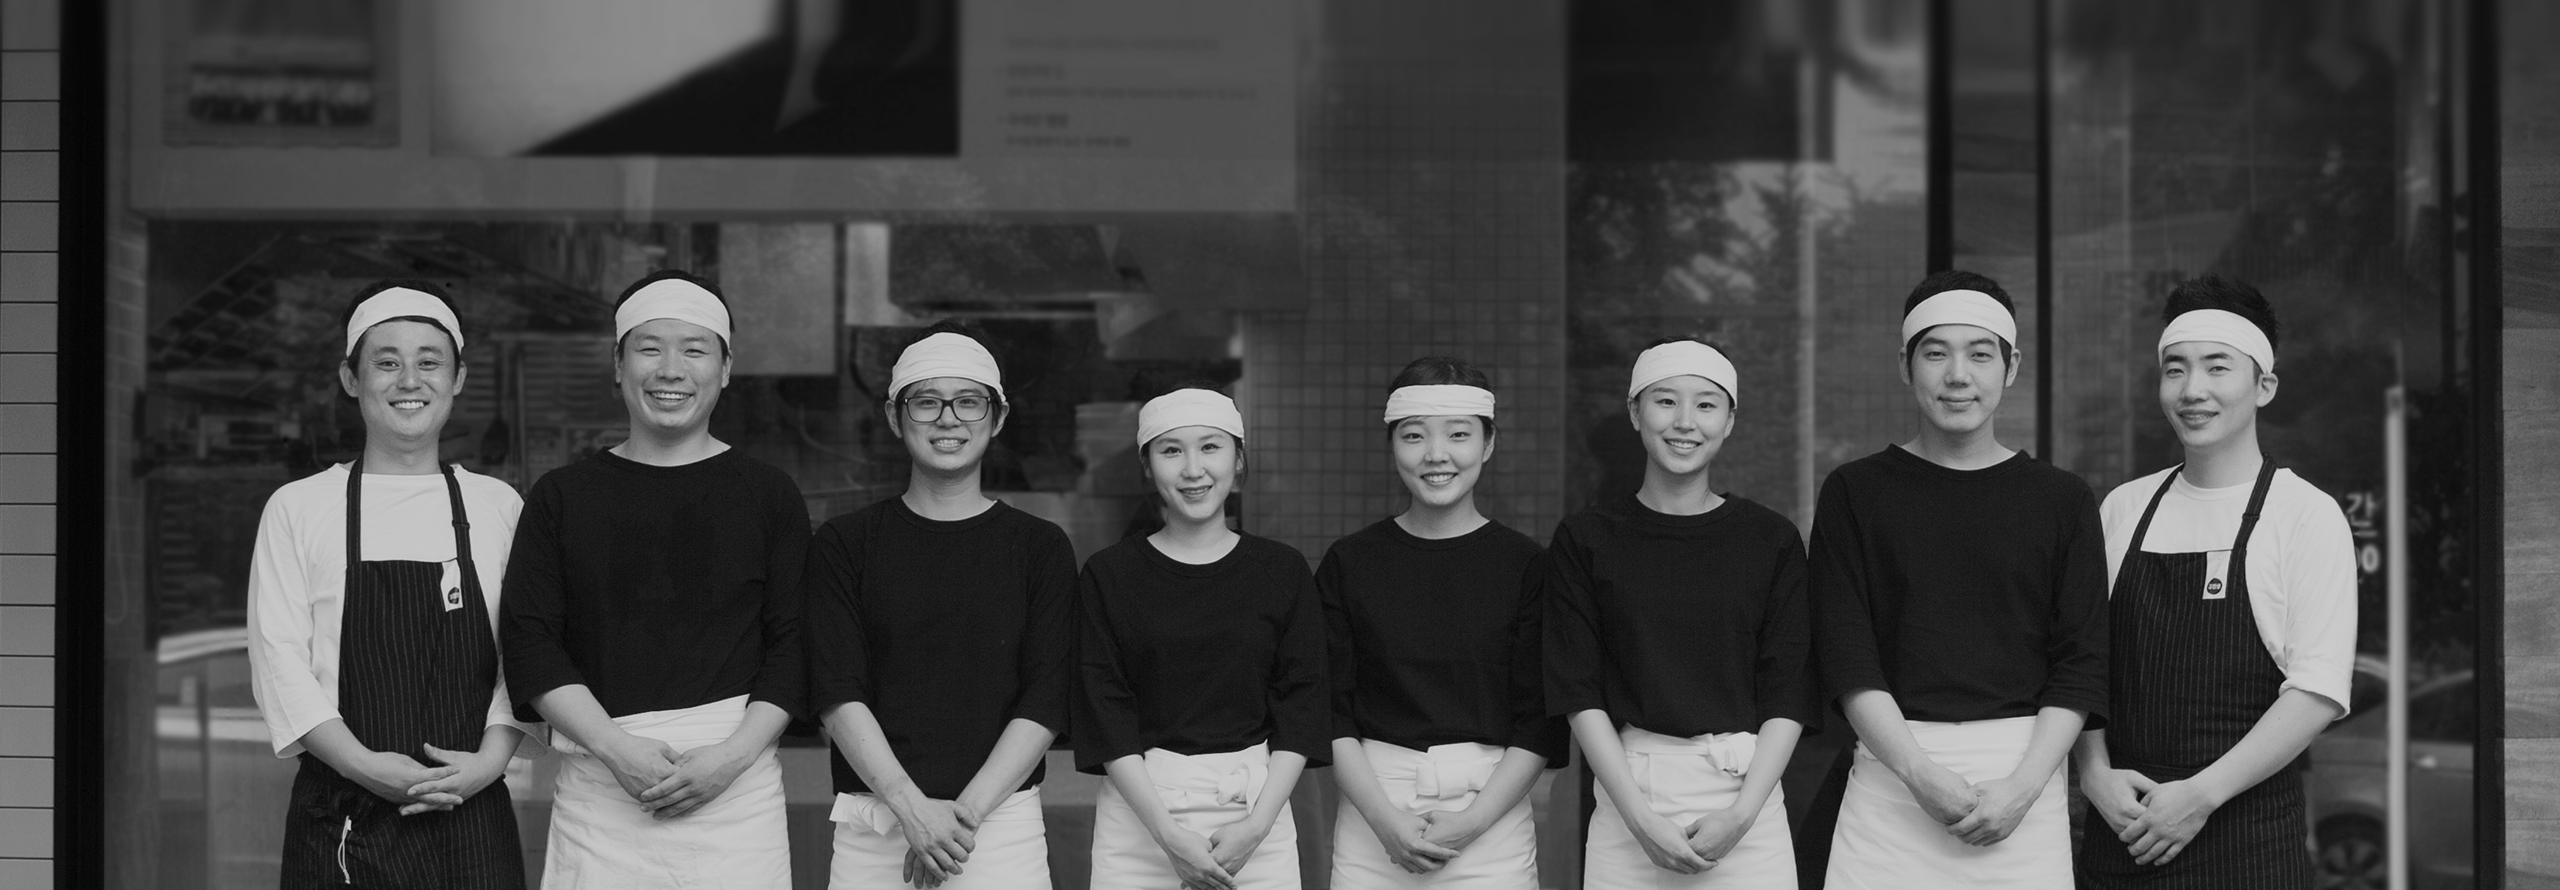
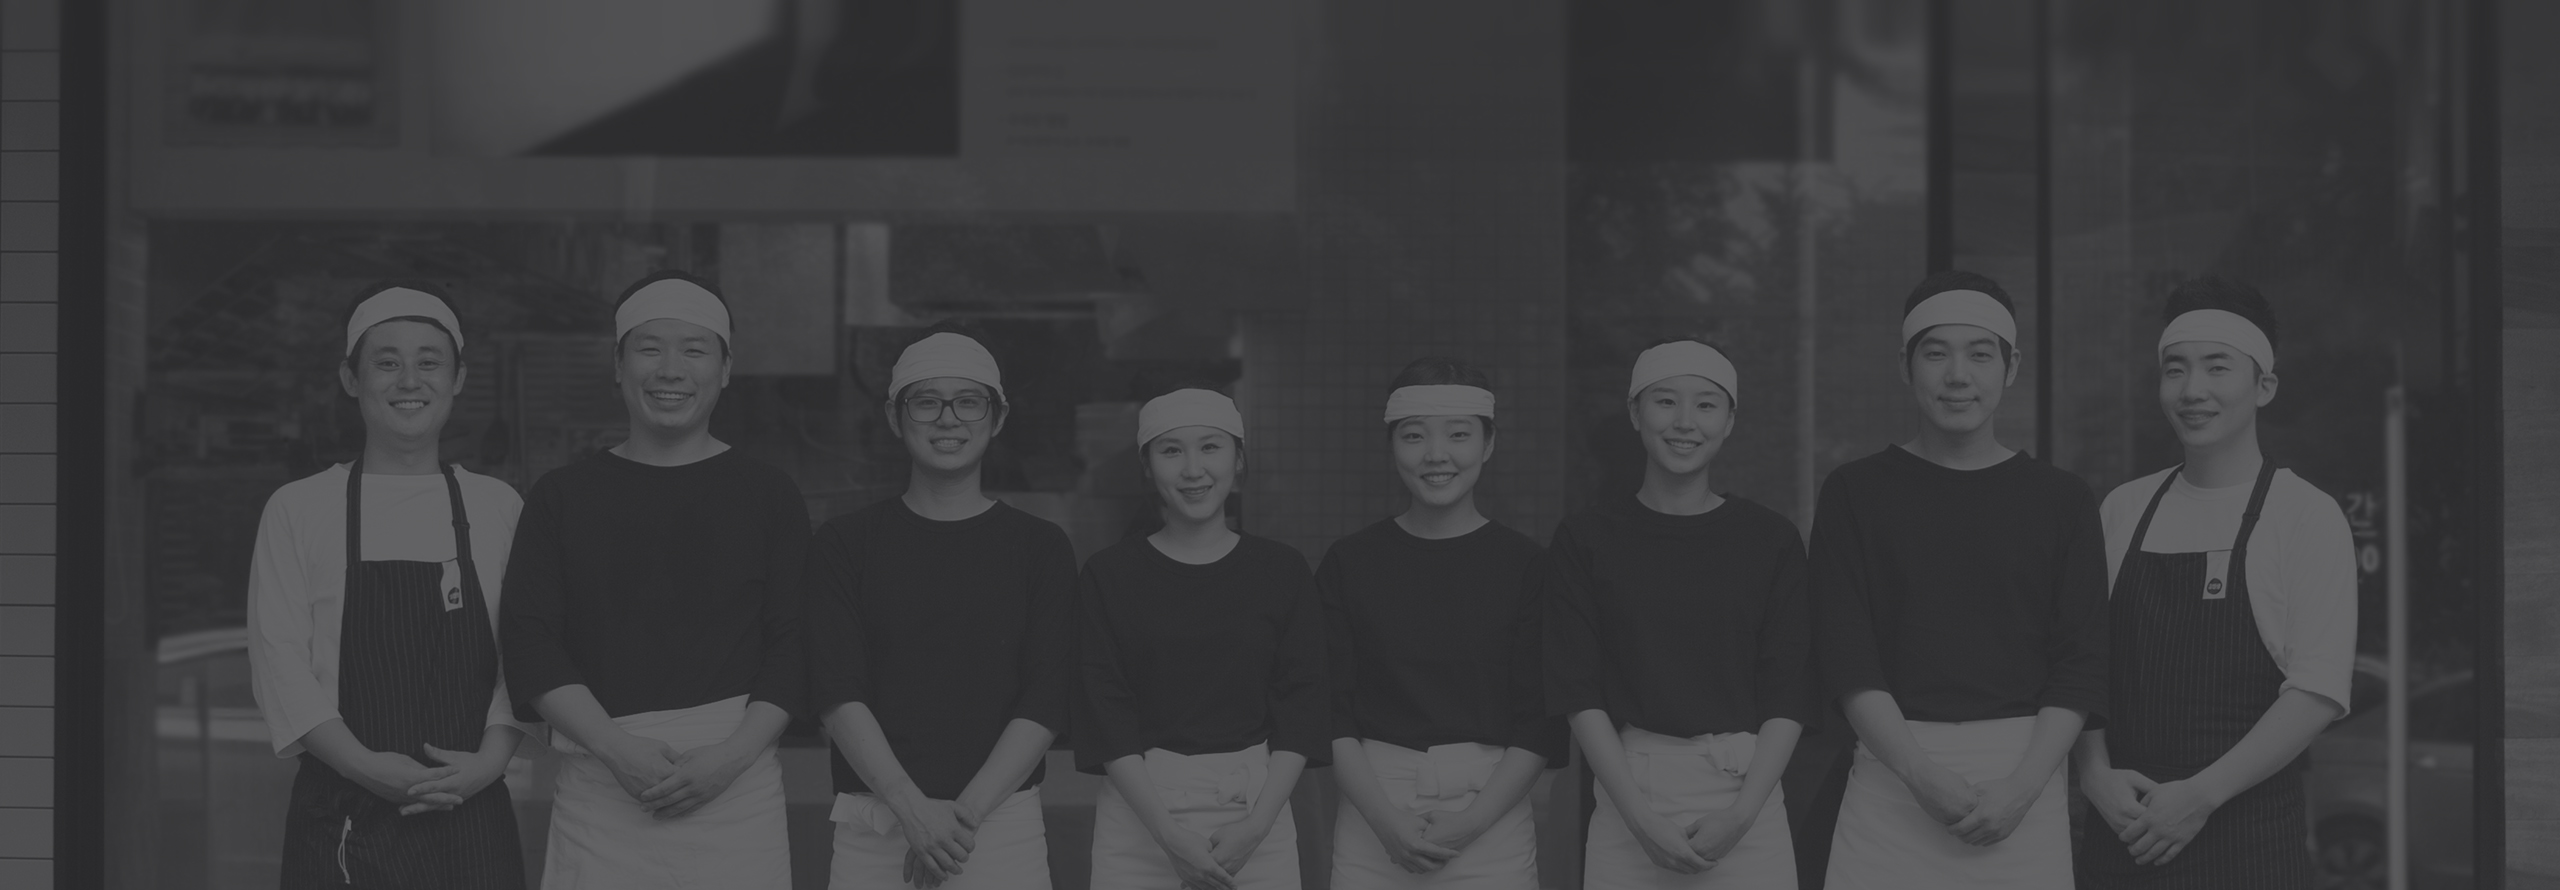
hj
hj

diff --git a/css/section9.css b/css/section9.css
@@ -7,15 +7,7 @@
   background-repeat: no-repeat;
   position: relative;
 }
-.sect9::after {
-  content: "";
-  width: 100%;
-  height: 100%;
-  background-color: rgba(0, 0, 0, 0.5);
-  position: absolute;
-  left: 0;
-  top: 0;
-}
+
 .sect9 .inner {
   max-width: 1200px;
   height: 100%;
@@ -64,13 +56,7 @@ footer .ft_1 a {
   font-size: 14px;
   text-decoration: none;
 }
-/* footer span {
-  display: block;
-  background-image: url(/img/sect1_logo.png);
-  background-size: cover;
-  width: 100px;
-  height: 200px;
-} */
+
 footer .ft_2 {
   padding: 10px;
 }
@@ -118,13 +104,9 @@ footer p {
     background-size: 100% 100%;
   }
 
-  .sect9::after {
-    height: 83.5%;
-  }
-
   .sect9 p {
     width: 97%;
-    font-size: 20px !important;
+    font-size: 20px;
     line-height: 28px;
     top: 40%;
     letter-spacing: 3px;
